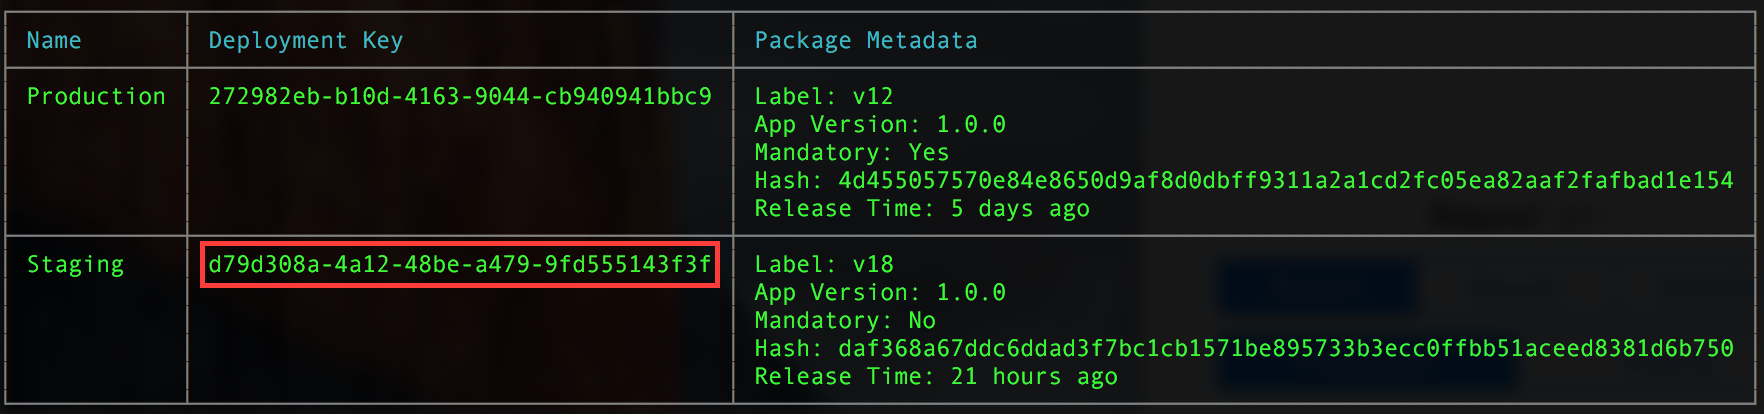
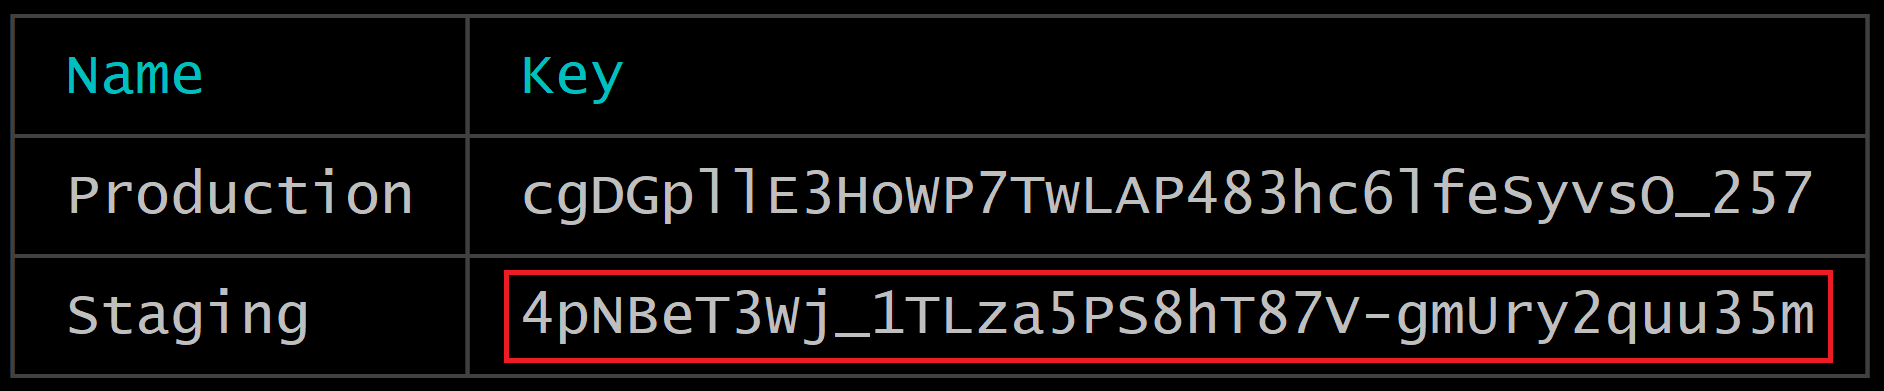
Update docs for codepush deployment list and history commands (#902)
* Added changed for list command

* Replaced screenshot

* Fixed screenshot name

* Replaced screen for history command

* Updated screen for history command

* Update cli.md

* Update cordova.md

* Update migrationguide.md

* Update react-native.md

* Update tutorials.md

Changed region(s): [[0.0, 0.0, 0.9977, 0.9821]]

diff --git a/docs/distribution/codepush/react-native.md b/docs/distribution/codepush/react-native.md
@@ -4,7 +4,7 @@ description: "How to use to the React Native SDK with CodePush"
 keywords: distribution
 author: Zakeelm
 ms.author: zakeelm
-ms.date: 09/05/2018
+ms.date: 10/11/2018
 ms.topic: article
 ms.assetid: FF626D21-2A99-457E-B632-AAC354782B54
 ms.service: vs-appcenter
@@ -118,7 +118,7 @@ In order to accommodate as many developer preferences as possible, the CodePush 
    > [!NOTE]
    > If you don't already have RNPM installed, you can do so by simply running `npm i -g rnpm` and then executing the above command. If you already have RNPM installed, make sure you have v1.9.0+ in order to benefit from this one step install.*
 
-2. You will be prompted for the deployment key you'd like to use. If you don't already have it, you can retrieve this value by running `appcenter codepush deployment list -a <ownerName>/<appName>`, or you can choose to ignore it (by simply hitting `<ENTER>`) and add it in later. To get started, we would recommend just using your `Staging` deployment key, so that you can test out the CodePush end-to-end.
+2. You will be prompted for the deployment key you'd like to use. If you don't already have it, you can retrieve this value by running `appcenter codepush deployment list -a <ownerName>/<appName> --displayKeys`, or you can choose to ignore it (by simply hitting `<ENTER>`) and add it in later. To get started, we would recommend just using your `Staging` deployment key, so that you can test out the CodePush end-to-end.
 
 And that's it! Isn't RNPM awesome? :)
 
@@ -222,7 +222,7 @@ NSURL *jsCodeLocation;
 #endif
 ```
 
-To let the CodePush runtime know which deployment it should query for updates against, open your app's `Info.plist` file and add a new entry named `CodePushDeploymentKey`, whose value is the key of the deployment you want to configure this app against (e.g. the key for the `Staging` deployment for the `FooBar` app). You can retrieve this value by running `appcenter codepush deployment list -a <ownerName>/<appName>` in the CodePush CLI  and copying the value of the `Deployment Key` column which corresponds to the deployment you want to use (see below). Note that using the deployment's name (e.g. Staging) will not work. That "friendly name" is intended only for authenticated management usage from the CLI, and not for public consumption within your app.
+To let the CodePush runtime know which deployment it should query for updates against, open your app's `Info.plist` file and add a new entry named `CodePushDeploymentKey`, whose value is the key of the deployment you want to configure this app against (e.g. the key for the `Staging` deployment for the `FooBar` app). You can retrieve this value by running `appcenter codepush deployment list -a <ownerName>/<appName> --displayKeys` in the CodePush CLI  and copying the value of the `Deployment Key` column which corresponds to the deployment you want to use (see below). Note that using the deployment's name (e.g. Staging) will not work. That "friendly name" is intended only for authenticated management usage from the CLI, and not for public consumption within your app.
 
 ![Deployment list](./images/rn-key-4.png)
 
@@ -290,7 +290,7 @@ In order to accommodate as many developer preferences as possible, the CodePush 
    > [!NOTE]
    > If you don't already have RNPM installed, you can do so by simply running `npm i -g rnpm` and then executing the above command.*
 
-2. If you're using RNPM >=1.6.0, you will be prompted for the deployment key you'd like to use. If you don't already have it, you can retreive this value by running `appcenter codepush deployment list -a <ownerName>/<appName>`, or you can choose to ignore it (by simply hitting `<ENTER>`) and add it in later. To get started, we would recommend just using your `Staging` deployment key, so that you can test out the CodePush end-to-end.
+2. If you're using RNPM >=1.6.0, you will be prompted for the deployment key you'd like to use. If you don't already have it, you can retreive this value by running `appcenter codepush deployment list -a <ownerName>/<appName> --displayKeys`, or you can choose to ignore it (by simply hitting `<ENTER>`) and add it in later. To get started, we would recommend just using your `Staging` deployment key, so that you can test out the CodePush end-to-end.
 
 And that's it for installation using RNPM! Continue below to the [Plugin Configuration](#plugin-configuration-android) section to complete the setup.
 
@@ -356,7 +356,7 @@ public class MainApplication extends Application implements ReactApplication {
         protected List<ReactPackage> getPackages() {
             // 3. Instantiate an instance of the CodePush runtime and add it to the list of
             // existing packages, specifying the right deployment key. If you don't already
-            // have it, you can run "appcenter codepush deployment list -a <ownerName>/<appName>" to retrieve your key.
+            // have it, you can run "appcenter codepush deployment list -a <ownerName>/<appName> --displayKeys" to retrieve your key.
             return Arrays.<ReactPackage>asList(
                 new MainReactPackage(),
                 new CodePush("deployment-key-here", MainApplication.this, BuildConfig.DEBUG)
@@ -423,7 +423,7 @@ public class MainActivity extends ReactActivity {
     protected List<ReactPackage> getPackages() {
         // 3. Instantiate an instance of the CodePush runtime and add it to the list of
         // existing packages, specifying the right deployment key. If you don't already
-        // have it, you can run "appcenter codepush deployment list -a <ownerName>/<appName>" to retrieve your key.
+        // have it, you can run "appcenter codepush deployment list -a <ownerName>/<appName> --displayKeys" to retrieve your key.
         return Arrays.<ReactPackage>asList(
             new MainReactPackage(),
             new CodePush("deployment-key-here", this, BuildConfig.DEBUG)
@@ -526,7 +526,7 @@ class AppReactPage : ReactPage
     // 3. Update the JavaScriptBundleFile property to initalize the CodePush runtime,
     // specifying the right deployment key, then use it to return the bundle URL from
     // CodePush instead of statically from the binary. If you don't already have your
-    // deployment key, you can run "appcenter codepush deployment list -a <ownerName>/<appName>" to retrieve it.
+    // deployment key, you can run "appcenter codepush deployment list -a <ownerName>/<appName> --displayKeys" to retrieve it.
     public override string JavaScriptBundleFile
     {
         get
@@ -754,7 +754,7 @@ To set this up, perform the following steps:
     ```
 
    > [!TIP]
-   > As a reminder, you can retrieve these keys by running `appcenter codepush deployment list -a <ownerName>/<appName>` from your terminal.
+   > As a reminder, you can retrieve these keys by running `appcenter codepush deployment list -a <ownerName>/<appName> --displayKeys` from your terminal.
    > 
    > [!NOTE]
    > The naming convention for `releaseStaging` is significant due to [this line](https://github.com/facebook/react-native/blob/e083f9a139b3f8c5552528f8f8018529ef3193b9/react.gradle#L79).
@@ -856,7 +856,7 @@ To set this up, perform the following steps:
 
     ![Setting Keys](./images/rn-ios-11.png)
 
-    *NOTE: As a reminder, you can retrieve these keys by running `appcenter codepush deployment list -a <ownerName>/<appName>` from your terminal.*
+    *NOTE: As a reminder, you can retrieve these keys by running `appcenter codepush deployment list -a <ownerName>/<appName> --displayKeys` from your terminal.*
 
 10. Open your project's `Info.plist` file and change the value of your `CodePushDeploymentKey` entry to `$(CODEPUSH_KEY)`
 
@@ -1582,7 +1582,7 @@ Now you'll be able to see CodePush logs in release mode, on both iOS or Android.
 |-----------------|-------------------|
 | Compilation Error | Double-check that your version of React Native is [compatible](#supported-react-native-platforms) with the CodePush version you are using. |
 | Network timeout / hang when calling `sync` or `checkForUpdate` in the iOS Simulator | Try resetting the simulator by selecting the `Simulator -> Reset Content and Settings..` menu item, and then re-running your app. |
-| Server responds with a `404` when calling `sync` or `checkForUpdate` | Double-check that the deployment key you added to your `Info.plist` (iOS), `build.gradle` (Android) or that you're passing to `sync`/`checkForUpdate`, is in fact correct. You can run `appcenter codepush deployment list <ownerName>/<appName>` to view the correct keys for your app deployments. |
+| Server responds with a `404` when calling `sync` or `checkForUpdate` | Double-check that the deployment key you added to your `Info.plist` (iOS), `build.gradle` (Android) or that you're passing to `sync`/`checkForUpdate`, is in fact correct. You can run `appcenter codepush deployment list <ownerName>/<appName> --displayKeys` to view the correct keys for your app deployments. |
 | Update not being discovered | Double-check that the version of your running app (e.g. `1.0.0`) matches the version you specified when releasing the update to CodePush. Additionally, make sure that you are releasing to the same deployment that your app is configured to sync with. |
 | Update not being displayed after restart | If you're not calling `sync` on app start (e.g. within `componentDidMount` of your root component), then you need to explicitly call `notifyApplicationReady` on app start, otherwise, the plugin will think your update failed and roll it back. |
 | I've released an update for iOS but my Android app also shows an update and it breaks it | Be sure you have different deployment keys for each platform in order to receive updates correctly |

diff --git a/docs/distribution/codepush/cli.md b/docs/distribution/codepush/cli.md
@@ -1,16 +1,17 @@
 ---
-title: Use the App Center CLI to release CodePush updates 
+title: Releasing CodePush updates using the App Center CLI
 description: "How to use and set up the App Center CLI to release CodePush updates"
 keywords: distribution
 author: Zakeelm
 ms.author: zakeelm
-ms.date: 11/15/2017
+ms.date: 10/11/2018
 ms.topic: article
 ms.assetid: 25A63776-28D6-4993-A597-C05443F7129F
 ms.service: vs-appcenter
 ms.custom: distribute
 ---
-# Management CLI
+
+# Releasing CodePush updates using the App Center CLI
 
 ## Installation
 
@@ -19,15 +20,14 @@ ms.custom: distribute
 
 ## Getting Started
 
-1. Create an [App Center account](https://appcenter.ms) or log in throught the CLI by using `appcenter login` 
-2. Register your [app](#app-management) with CodePush, and optionally [share it](#app-collaboration) with other developers on your team
-3. CodePush-ify your app and point it at the deployment you wish to use ([Cordova](./cordova.md) and [React Native](./react-native.md))
-4. [Release](#releasing-app-updates) an update for your app
-5. Live long and prosper! ([details](https://en.wikipedia.org/wiki/Vulcan_salute))
+1. Create an [App Center account](https://appcenter.ms) or log in throught the CLI by using `appcenter login`.
+2. [Register your app](#app-management) with CodePush, and optionally [share your app with other developers](#app-collaboration) on your team.
+3. CodePush-ify your app and point it at the deployment you wish to use ([Apache Cordova](~/distribution/codepush/cordova.md) and [React Native](~/distribution/codepush/react-native.md)).
+4. [Release and update for your app](#releasing-app-updates).
 
 ## <a name="account-creation"/>Account Management
 
-Before you can begin releasing app updates, you need to create a log in to your existing CodePush account or create a new App Center account. You can do this by simply running the following command once you've installed the CLI:
+Before you can begin releasing app updates, you must create a login to your existing CodePush account or create a new App Center account. You can do this by simply running the following command once you've installed the CLI:
 
 ```shell
 appcenter login
@@ -40,13 +40,13 @@ This will launch a browser, asking you to authenticate with either your GitHub o
 
 ### Authentication
 
-Most commands within the App Center CLI require authentication, and therefore, before you can begin managing your account, you need to login using the GitHub or Microsoft account you used when registering. You can do this by running the following command:
+Most commands within the App Center CLI require authentication, and therefore, before you can begin managing your account, you must login using the GitHub or Microsoft account you used when registering. You can do this by executing the following command:
 
 ```shell
 appcenter login
 ```
 
-This will launch a browser, asking you to authenticate with either your GitHub or Microsoft account. This will generate an access key that you need to copy/paste into the CLI (it will prompt you for it). You are now successfully authenticated and can safely close your browser window.
+This will launch a browser window asking you to authenticate with either your GitHub or Microsoft account. This will generate an access key that you need to copy/paste into the CLI (it will prompt you for it). You are now successfully authenticated and can safely close your browser window.
 
 If at any time you want to determine if you're already logged in, you can run the following command to display the e-mail address associated with your current authentication session, your username, and your display name:
 
@@ -54,7 +54,7 @@ If at any time you want to determine if you're already logged in, you can run th
 appcenter profile list
 ```
 
-When you login from the CLI, your access key is persisted to disk for the duration of your session so that you don't have to login every time you attempt to access your account. In order to end your session and delete this access key, simply run the following command:
+When you login from the CLI, your access key persists to disk for the duration of your session so that you don't have to login every time you attempt to access your account. To end your session and delete this access key, simply execute the following command:
 
 ```shell
 appcenter logout
@@ -69,30 +69,29 @@ appcenter tokens delete <machineName>
 
 ### Access Tokens
 
-If you need to be able to authenticate against the CodePush service without launching a browser and/or without needing to use your GitHub and/or Microsoft credentials (e.g. in a CI environment), you can run the following command to create an "access token" (along with a name describing what it is for):
+To authenticate against the CodePush service without launching a browser and/or without needing to use your GitHub and/or Microsoft credentials (e.g. in a CI environment), you can execute the following command to create an "access token" (along with a name describing what it is for):
 
 ```shell
 appcenter tokens create -d "VSTS Integration"
 ```
 
-For security, the key will only be shown once on creation, so remember to save it somewhere if needed!
-After creating the new key, you can specify its value using the `--token` flag of the `login` command, which allows you to perform "headless" authentication, as opposed to launching a browser.
+The key will only display once, so remember to save it somewhere if needed! After creating the new key, you can specify its value using the `--token` flag of the `login` command, which allows you to perform "headless" authentication, as opposed to launching a browser.
 
 ```shell
 appcenter login --token <accessToken>
 ```
 
-When logging in using this method, the access token will not be automatically invalidated on logout, and can be used in future sessions until it is explicitly removed from the App Center server. However, it is still recommended that you log out once your session is complete, in order to remove your credentials from disk.
+When logging in using this method, the access token will not automatically invalidate on logout, and can be used in future sessions until it is explicitly removed from the App Center server. However, you should log out once your session is complete, to remove your credentials from disk.
 
 ## App Management
 
-Before you can deploy any updates, you need to create an app with App Center using the following command:
+Before deploying updates, you must create an app with App Center using the following command:
 
 ```shell
 appcenter apps create -d <appDisplayName> -o <operatingSystem>  -p <platform> 
 ```
 
-If your app targets both iOS and Android, we highly recommend creating separate apps with CodePush. One for each platform. This way, you can manage and release updates to them separately, which in the long run, tends to make things simpler. Most people just suffix the app name with `-iOS` and `-Android`. For example:
+If your app targets both Android and iOS, we highly recommend creating separate apps with CodePush. One for each platform. This way, you can manage and release updates to them separately, which in the long run, tends to make things simpler. Most people just suffix the app name with `-Android` and `-iOS`. For example:
 
 ```shell
 appcenter apps create -d MyApp-Android -o Android -p React-Native
@@ -100,7 +99,7 @@ appcenter apps create -d MyApp-iOS -o iOS -p Cordova
 ```
 
 > [!NOTE]
-> Using the same app for iOS and Android may cause installation exceptions because the CodePush update package produced for iOS will have different content from the update produced for Android.
+> Using the same app for Android and iOS may cause installation exceptions because the CodePush update package produced for iOS will have different content from the update produced for Android.
 > 
 > [!TIP]
 > One important new functionality in the App Center CLI is the ability to set an app as the **current app** using `appcenter apps set-current <ownerName>/<appName>`. By setting an app as the current app you no don't have to use the `-a` flag in other CLI commands. For example, the command `appcenter codepush deployment list -a <ownerName>/<appName>` can be shortened to `appcenter codepush deployment list` when the current app is set. You can check which app is set as your account's current app using `appcenter apps get-current`. Setting current app makes typing most CLI commands shorter.
@@ -112,7 +111,7 @@ appcenter codepush deployment add -a <ownerName>/<appName> Staging
 appcenter codepush deployment add -a <ownerName>/<appName> Production
 ```
 
-After you create the deployments, you can access the deployment keys for both deployments using `appcenter codepush deployment list`, which you can begin using to configure your mobile clients via their respective SDKs (details for [Cordova](./cordova.md) and [React Native](./react-native.md)).
+After you create the deployments, you can access the deployment keys for both deployments using `appcenter codepush deployment list --displayKeys`, which you can begin using to configure your mobile clients via their respective SDKs (details for [Cordova](./cordova.md) and [React Native](./react-native.md)).
 
 If you decide that you don't like the name you gave to an app, you can rename it at any time using the following command:
 

diff --git a/docs/distribution/codepush/cordova.md b/docs/distribution/codepush/cordova.md
@@ -4,7 +4,7 @@ description: "How to use to the Cordova SDK with CodePush"
 keywords: distribution
 author: Zakeelm
 ms.author: zakeelm
-ms.date: 08/08/2018
+ms.date: 10/11/2018
 ms.topic: article
 ms.assetid: 591025F9-C7DA-400E-8CCA-DF39514B3DD0
 ms.service: vs-appcenter
@@ -66,7 +66,7 @@ With the CodePush plugin installed, configure your app to use it via the followi
     </platform>
     ```
     
-    As a reminder, these keys are generated for you when you created your CodePush app via the CLI. If you need to retrieve them, you can simply run `appcenter codepush deployment list -a <ownerName>/<appName>`, and grab the key for the specific deployment you want to use (e.g. `Staging`, `Production`).
+    As a reminder, these keys are generated for you when you created your CodePush app via the CLI. If you need to retrieve them, you can simply run `appcenter codepush deployment list -a <ownerName>/<appName> --displayKeys`, and grab the key for the specific deployment you want to use (e.g. `Staging`, `Production`).
     
    > [!IMPORTANT]
    > We [recommend](./cli.md#app-management) creating a separate CodePush app for iOS and Android, which is why the above sample illustrates declaring separate keys for Android and iOS. If you're only developing for a single platform, then you only need to specify the deployment key for either Android or iOS, so you don't need to add the additional `<platform>` element as illustrated above.*

diff --git a/docs/distribution/codepush/migrationguide.md b/docs/distribution/codepush/migrationguide.md
@@ -4,7 +4,7 @@ description: "How to migrate from CodePush to App Center"
 keywords: distribution
 author: zakeelm
 ms.author: zakeelm 
-ms.date: 06/26/2018
+ms.date: 10/11/2018
 ms.topic: article
 ms.assetid: 94769F28-24C6-4A14-84F9-9A8D82AE1D13
 ms.service: vs-appcenter
@@ -49,7 +49,7 @@ If you specify that your app is a Cordova application, you may notice that we do
 If your imported app's platform is React Native or if you are starting a new React Native app from scratch, you should see an app overview panel that lets you manage your app and provides you with instruction on how to integrate other App Center SDKs. Your App Center app secret is what allows your app to send information to App Center, it is *not* the same as your CodePush deployment keys; the latter can be discovered by open a terminal window and executing:
 
 ```shell
-appcenter codepush deployment list <ownerName>/<appName>
+appcenter codepush deployment list <ownerName>/<appName> --displayKeys
 ```
 
 **3. Install the App Center CLI**

diff --git a/docs/distribution/codepush/tutorials.md b/docs/distribution/codepush/tutorials.md
@@ -4,7 +4,7 @@ description: "Tutorials to help you get started with using CodePush"
 keywords: distribution
 author: Zakeelm
 ms.author: zakeelm
-ms.date: 09/12/2018
+ms.date: 10/11/2018
 ms.topic: article
 ms.assetid: E5791947-AF21-47D0-84A0-90D5F06DC8A9
 ms.service: vs-appcenter
@@ -201,7 +201,7 @@ appcenter codepush deployment add -a <ownerName>/VSTSCDSample-Android Production
 To view the deployment keys use:
 
 ```shell
-appcenter codepush deployment list -a <ownerName>/VSTSCDSample-Android
+appcenter codepush deployment list -a <ownerName>/VSTSCDSample-Android --displayKeys
 ```
 
 ![CodePush CLI providing deployment keys](images/tutorials1.png)
